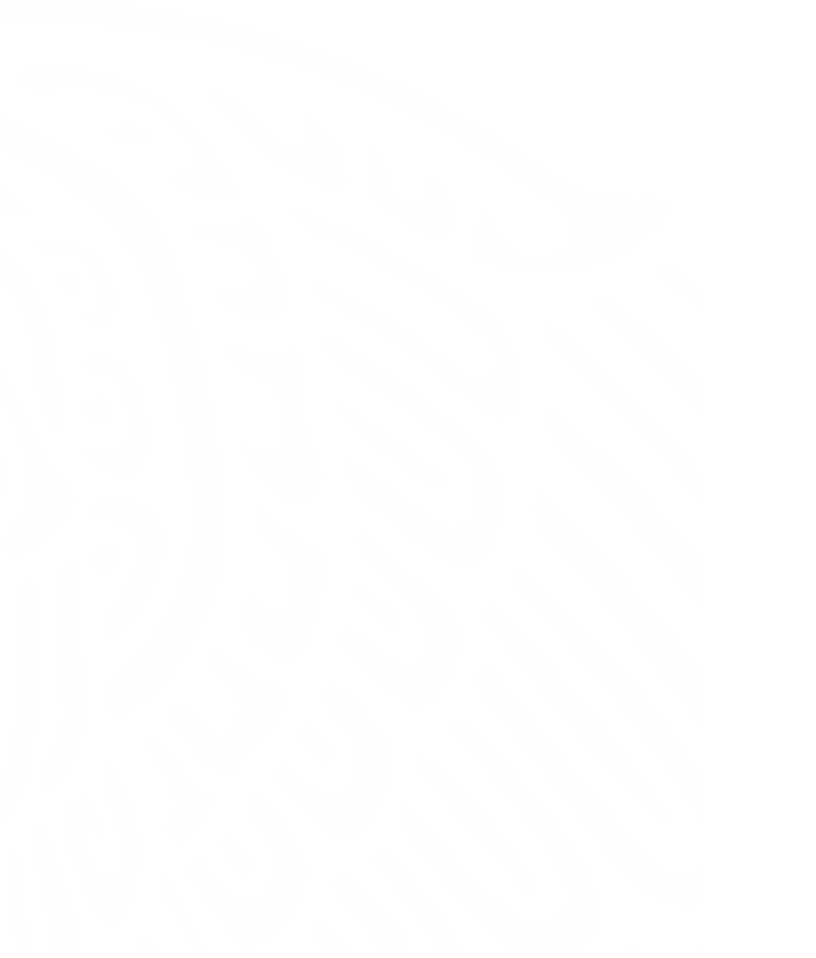
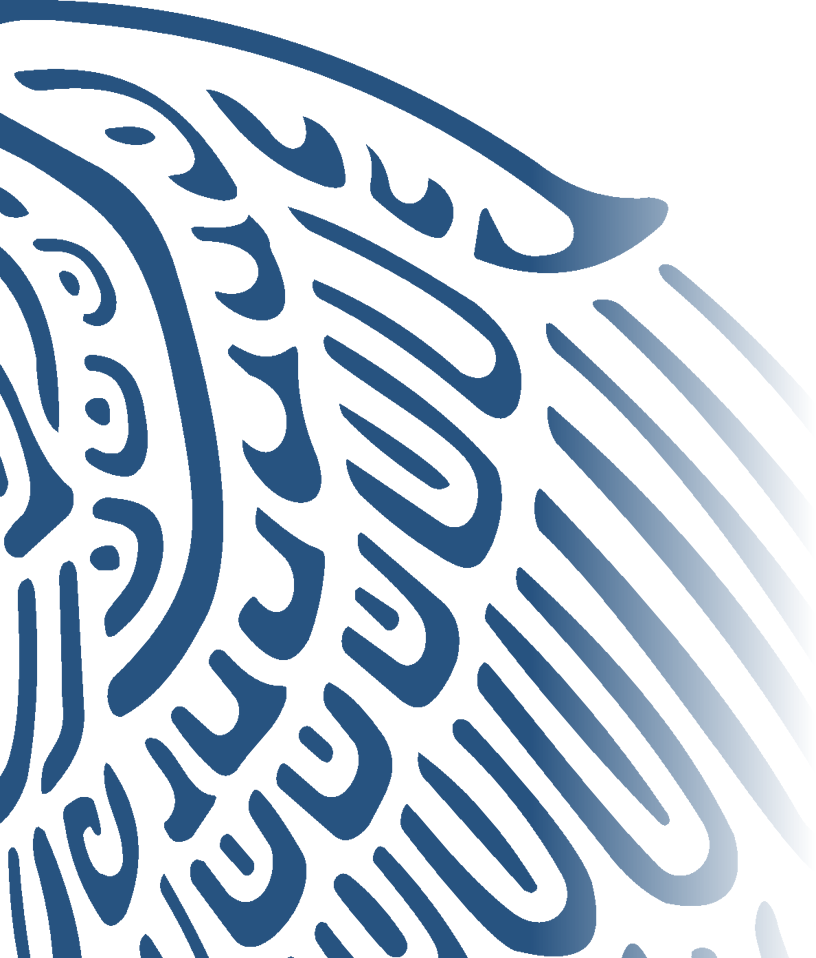
Actualización de diceño de la página

diff --git a/plano.css b/plano.css
@@ -49,9 +49,9 @@
 }
 
 /* ---------- 2. PAPEL CUADRICULADO ---------- */
-html { background-color: var(--papel); }
-
-body {
+/* La cuadrícula se dibuja en <html> y <body> queda transparente:
+   así el ala institucional (body::before) queda ENCIMA de la cuadrícula. */
+html {
   background-color: var(--papel) !important;
   background-image:
     linear-gradient(rgba(234, 244, 255, 0.07) 1px, transparent 1px),
@@ -60,15 +60,20 @@ body {
     linear-gradient(90deg, rgba(234, 244, 255, 0.03) 1px, transparent 1px) !important;
   background-size: 100px 100px, 100px 100px, 20px 20px, 20px 20px !important;
   background-position: -1px -1px !important;
+  background-attachment: fixed !important;
+}
+
+body {
+  background: transparent !important;
   color: var(--tinta-2);
 }
 
 /* El ala institucional ahora se dibuja en "tinta" blanca muy tenue */
 body::before {
-  background-image: url("img/fondo_ala_plano.png") !important;
+  background-image: url("img/fondo_ala_plano.png?v=2") !important;
 }
 nav, footer, .header-institucional {
-  background-image: url("img/fondo_ala_plano.png") !important;
+  background-image: url("img/fondo_ala_plano.png?v=2") !important;
   background-color: var(--papel-hondo) !important;
 }
 
@@ -553,9 +558,19 @@ footer { padding: 14px 20px !important; }
   text-decoration: none !important;
 }
 
-/* ---------- 17. ENCABEZADO INSTITUCIONAL (login y registro) ---------- */
+/* ---------- 17. ENCABEZADO INSTITUCIONAL PERMANENTE (todas las páginas) ---------- */
 .header-institucional {
+  position: sticky !important;
+  top: 0;
+  z-index: 1100 !important;
+  width: 100% !important;
+  max-width: none !important;
+  margin: 0 !important;
+  text-align: left !important;
+  display: block !important;
   padding: 16px 4% !important;
+  border-bottom: 1px solid var(--linea) !important;
+  transition: padding .3s ease;
 }
 .encabezado-plano {
   display: flex;
@@ -572,8 +587,29 @@ footer { padding: 14px 20px !important; }
   transform: none !important;
   background: none !important;
   padding: 0 !important;
+  transition: height .3s ease;
 }
+/* Al bajar en la página el encabezado se hace más delgado (lo activa plano.js) */
+.header-institucional.compacto { padding-top: 7px !important; padding-bottom: 7px !important; }
+.header-institucional.compacto .encabezado-plano img { height: 40px !important; }
+
+/* La barra de navegación queda fija justo debajo del encabezado */
+nav {
+  position: sticky !important;
+  top: var(--alto-encabezado, 0px) !important;
+  z-index: 1050 !important;
+}
+
 @media (max-width: 760px) {
+  .header-institucional { padding: 10px 4% !important; }
   .encabezado-plano { gap: 12px; }
   .header-institucional .encabezado-plano img { height: 34px !important; }
+  .header-institucional.compacto .encabezado-plano img { height: 26px !important; }
+  /* En celular la barra de navegación no se queda fija, para no tapar la pantalla */
+  nav { position: relative !important; top: 0 !important; }
 }
+
+/* Con el encabezado arriba, el contenido empieza justo debajo de la barra
+   y el pie se queda abajo (algunas páginas repartían el espacio) */
+body { justify-content: flex-start !important; }
+body > footer { margin-top: auto !important; }

diff --git a/plano.js b/plano.js
@@ -70,7 +70,28 @@
       <div class="cajetin__copy">${original}</div>`;
   }
 
+  // Encabezado institucional permanente: se adelgaza al bajar y la barra de
+  // navegación se acomoda justo debajo de él (variable --alto-encabezado)
+  function encabezadoPermanente() {
+    const enc = document.querySelector(".header-institucional");
+    if (!enc) return;
+    const medir = () =>
+      document.documentElement.style.setProperty("--alto-encabezado", enc.offsetHeight + "px");
+    const alBajar = () => enc.classList.toggle("compacto", window.scrollY > 40);
+    if (window.ResizeObserver) new ResizeObserver(medir).observe(enc);
+    window.addEventListener("resize", medir);
+    enc.addEventListener("transitionend", medir);
+    enc.querySelectorAll("img").forEach((img) => {
+      img.addEventListener("transitionend", medir);
+      img.addEventListener("load", medir);
+    });
+    window.addEventListener("scroll", alBajar, { passive: true });
+    medir();
+    alBajar();
+  }
+
   function aplicar() {
+    encabezadoPermanente();
     const contenedor = document.querySelector(
       ".main-container, .portal-container, body > .container, .scanner-container, .register-card, .auth-column"
     );

diff --git a/escaner.html b/escaner.html
@@ -233,8 +233,8 @@
     }
   </style>
   <!-- 📐 Tema "plano técnico" (colores, botones, tablas, hojas y cajetín) -->
-  <link rel="stylesheet" href="plano.css?v=3">
-  <script src="plano.js?v=3" defer></script>
+  <link rel="stylesheet" href="plano.css?v=4">
+  <script src="plano.js?v=4" defer></script>
   <!-- 🔒 Guardia de sesión: login obligatorio, permisos por rol (ADMINISTRADOR, TECNICO, CONSULTA) y cierre por inactividad -->
   <style id="guardia-sesion">body{visibility:hidden}</style>
   <script type="module">
@@ -243,6 +243,13 @@
   </script>
 </head>
 <body>
+  <!-- 🏛 Encabezado institucional permanente (igual en todas las páginas) -->
+  <header class="header-institucional">
+    <div class="encabezado-plano">
+      <img src="img/encabezado_plano_izq.png" alt="Gobierno del Estado de Yucatán - Servicios de Salud de Yucatán">
+      <img src="img/encabezado_plano_der.png" alt="Plataforma de Salud Yucatán">
+    </div>
+  </header>
 
   <!-- NAVEGACIÓN SUPERIOR -->
   <nav>

diff --git a/inventario.html b/inventario.html
@@ -312,8 +312,8 @@
     }
   </style>
   <!-- 📐 Tema "plano técnico" (colores, botones, tablas, hojas y cajetín) -->
-  <link rel="stylesheet" href="plano.css?v=3">
-  <script src="plano.js?v=3" defer></script>
+  <link rel="stylesheet" href="plano.css?v=4">
+  <script src="plano.js?v=4" defer></script>
   <!-- 🔒 Guardia de sesión: login obligatorio, permisos por rol (ADMINISTRADOR, TECNICO, CONSULTA) y cierre por inactividad -->
   <style id="guardia-sesion">body{visibility:hidden}</style>
   <script type="module">
@@ -322,6 +322,13 @@
   </script>
 </head>
 <body>
+  <!-- 🏛 Encabezado institucional permanente (igual en todas las páginas) -->
+  <header class="header-institucional">
+    <div class="encabezado-plano">
+      <img src="img/encabezado_plano_izq.png" alt="Gobierno del Estado de Yucatán - Servicios de Salud de Yucatán">
+      <img src="img/encabezado_plano_der.png" alt="Plataforma de Salud Yucatán">
+    </div>
+  </header>
 
   <!-- NAVEGACIÓN SUPERIOR -->
   <nav>

diff --git a/reportes_equipos.html b/reportes_equipos.html
@@ -372,8 +372,8 @@
     }
   </style>
   <!-- 📐 Tema "plano técnico" (colores, botones, tablas, hojas y cajetín) -->
-  <link rel="stylesheet" href="plano.css?v=3">
-  <script src="plano.js?v=3" defer></script>
+  <link rel="stylesheet" href="plano.css?v=4">
+  <script src="plano.js?v=4" defer></script>
   <!-- 🔒 Guardia de sesión: login obligatorio, permisos por rol (ADMINISTRADOR, TECNICO, CONSULTA) y cierre por inactividad -->
   <style id="guardia-sesion">body{visibility:hidden}</style>
   <script type="module">
@@ -382,6 +382,13 @@
   </script>
 </head>
 <body>
+  <!-- 🏛 Encabezado institucional permanente (igual en todas las páginas) -->
+  <header class="header-institucional">
+    <div class="encabezado-plano">
+      <img src="img/encabezado_plano_izq.png" alt="Gobierno del Estado de Yucatán - Servicios de Salud de Yucatán">
+      <img src="img/encabezado_plano_der.png" alt="Plataforma de Salud Yucatán">
+    </div>
+  </header>
 
   <nav>
     <div class="nav-left">

diff --git a/bajas.html b/bajas.html
@@ -276,8 +276,8 @@
     }
   </style>
   <!-- 📐 Tema "plano técnico" (colores, botones, tablas, hojas y cajetín) -->
-  <link rel="stylesheet" href="plano.css?v=3">
-  <script src="plano.js?v=3" defer></script>
+  <link rel="stylesheet" href="plano.css?v=4">
+  <script src="plano.js?v=4" defer></script>
   <!-- 🔒 Guardia de sesión: login obligatorio, permisos por rol (ADMINISTRADOR, TECNICO) y cierre por inactividad -->
   <style id="guardia-sesion">body{visibility:hidden}</style>
   <script type="module">
@@ -286,6 +286,13 @@
   </script>
 </head>
 <body>
+  <!-- 🏛 Encabezado institucional permanente (igual en todas las páginas) -->
+  <header class="header-institucional">
+    <div class="encabezado-plano">
+      <img src="img/encabezado_plano_izq.png" alt="Gobierno del Estado de Yucatán - Servicios de Salud de Yucatán">
+      <img src="img/encabezado_plano_der.png" alt="Plataforma de Salud Yucatán">
+    </div>
+  </header>
 
   <!-- NAVEGACIÓN SUPERIOR -->
   <nav>

diff --git a/mantenimientos.html b/mantenimientos.html
@@ -279,8 +279,8 @@
     }
   </style>
   <!-- 📐 Tema "plano técnico" (colores, botones, tablas, hojas y cajetín) -->
-  <link rel="stylesheet" href="plano.css?v=3">
-  <script src="plano.js?v=3" defer></script>
+  <link rel="stylesheet" href="plano.css?v=4">
+  <script src="plano.js?v=4" defer></script>
   <!-- 🔒 Guardia de sesión: login obligatorio, permisos por rol (ADMINISTRADOR, TECNICO) y cierre por inactividad -->
   <style id="guardia-sesion">body{visibility:hidden}</style>
   <script type="module">
@@ -289,6 +289,13 @@
   </script>
 </head>
 <body>
+  <!-- 🏛 Encabezado institucional permanente (igual en todas las páginas) -->
+  <header class="header-institucional">
+    <div class="encabezado-plano">
+      <img src="img/encabezado_plano_izq.png" alt="Gobierno del Estado de Yucatán - Servicios de Salud de Yucatán">
+      <img src="img/encabezado_plano_der.png" alt="Plataforma de Salud Yucatán">
+    </div>
+  </header>
 
   <!-- NAVEGACIÓN SUPERIOR -->
   <nav>

diff --git a/alta.html b/alta.html
@@ -272,8 +272,8 @@
     }
   </style>
   <!-- 📐 Tema "plano técnico" (colores, botones, tablas, hojas y cajetín) -->
-  <link rel="stylesheet" href="plano.css?v=3">
-  <script src="plano.js?v=3" defer></script>
+  <link rel="stylesheet" href="plano.css?v=4">
+  <script src="plano.js?v=4" defer></script>
   <!-- 🔒 Guardia de sesión: login obligatorio, permisos por rol (ADMINISTRADOR) y cierre por inactividad -->
   <style id="guardia-sesion">body{visibility:hidden}</style>
   <script type="module">
@@ -282,6 +282,13 @@
   </script>
 </head>
 <body>
+  <!-- 🏛 Encabezado institucional permanente (igual en todas las páginas) -->
+  <header class="header-institucional">
+    <div class="encabezado-plano">
+      <img src="img/encabezado_plano_izq.png" alt="Gobierno del Estado de Yucatán - Servicios de Salud de Yucatán">
+      <img src="img/encabezado_plano_der.png" alt="Plataforma de Salud Yucatán">
+    </div>
+  </header>
 
   <!-- NAVEGACIÓN SUPERIOR -->
   <nav>

diff --git a/gestion_usuarios.html b/gestion_usuarios.html
@@ -158,8 +158,8 @@
     }
   </style>
   <!-- 📐 Tema "plano técnico" (colores, botones, tablas, hojas y cajetín) -->
-  <link rel="stylesheet" href="plano.css?v=3">
-  <script src="plano.js?v=3" defer></script>
+  <link rel="stylesheet" href="plano.css?v=4">
+  <script src="plano.js?v=4" defer></script>
   <!-- 🔒 Guardia de sesión: login obligatorio, permisos por rol (ADMINISTRADOR) y cierre por inactividad -->
   <style id="guardia-sesion">body{visibility:hidden}</style>
   <script type="module">
@@ -168,6 +168,13 @@
   </script>
 </head>
 <body>
+  <!-- 🏛 Encabezado institucional permanente (igual en todas las páginas) -->
+  <header class="header-institucional">
+    <div class="encabezado-plano">
+      <img src="img/encabezado_plano_izq.png" alt="Gobierno del Estado de Yucatán - Servicios de Salud de Yucatán">
+      <img src="img/encabezado_plano_der.png" alt="Plataforma de Salud Yucatán">
+    </div>
+  </header>
 
   <nav>
     <div class="nav-left">

diff --git a/reportes_accesos.html b/reportes_accesos.html
@@ -210,8 +210,8 @@
     }
   </style>
   <!-- 📐 Tema "plano técnico" (colores, botones, tablas, hojas y cajetín) -->
-  <link rel="stylesheet" href="plano.css?v=3">
-  <script src="plano.js?v=3" defer></script>
+  <link rel="stylesheet" href="plano.css?v=4">
+  <script src="plano.js?v=4" defer></script>
   <!-- 🔒 Guardia de sesión: login obligatorio, permisos por rol (ADMINISTRADOR) y cierre por inactividad -->
   <style id="guardia-sesion">body{visibility:hidden}</style>
   <script type="module">
@@ -220,6 +220,13 @@
   </script>
 </head>
 <body>
+  <!-- 🏛 Encabezado institucional permanente (igual en todas las páginas) -->
+  <header class="header-institucional">
+    <div class="encabezado-plano">
+      <img src="img/encabezado_plano_izq.png" alt="Gobierno del Estado de Yucatán - Servicios de Salud de Yucatán">
+      <img src="img/encabezado_plano_der.png" alt="Plataforma de Salud Yucatán">
+    </div>
+  </header>
 
   <nav>
     <div class="nav-left">

diff --git a/index.html b/index.html
@@ -322,8 +322,8 @@
     }
   </style>
   <!-- 📐 Tema "plano técnico" (colores, botones, tablas, hojas y cajetín) -->
-  <link rel="stylesheet" href="plano.css?v=3">
-  <script src="plano.js?v=3" defer></script>
+  <link rel="stylesheet" href="plano.css?v=4">
+  <script src="plano.js?v=4" defer></script>
   <!-- 🎡 Menú en tambor 3D -->
   <link rel="stylesheet" href="menu_tambor.css?v=1">
   <script src="menu_tambor.js?v=1" defer></script>
@@ -335,6 +335,13 @@
   </script>
 </head>
 <body>
+  <!-- 🏛 Encabezado institucional permanente (igual en todas las páginas) -->
+  <header class="header-institucional">
+    <div class="encabezado-plano">
+      <img src="img/encabezado_plano_izq.png" alt="Gobierno del Estado de Yucatán - Servicios de Salud de Yucatán">
+      <img src="img/encabezado_plano_der.png" alt="Plataforma de Salud Yucatán">
+    </div>
+  </header>
 
   <!-- BARRA SUPERIOR -->
   <nav>

diff --git a/login.html b/login.html
@@ -373,8 +373,8 @@
     }
   </style>
   <!-- 📐 Tema "plano técnico" (colores, botones, tablas, hojas y cajetín) -->
-  <link rel="stylesheet" href="plano.css?v=3">
-  <script src="plano.js?v=3" defer></script>
+  <link rel="stylesheet" href="plano.css?v=4">
+  <script src="plano.js?v=4" defer></script>
 </head>
 <body>
 
